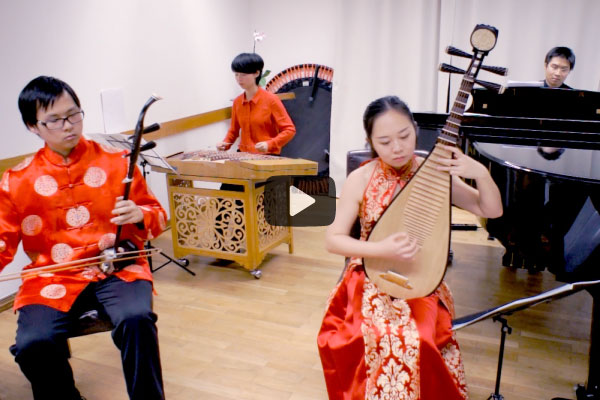
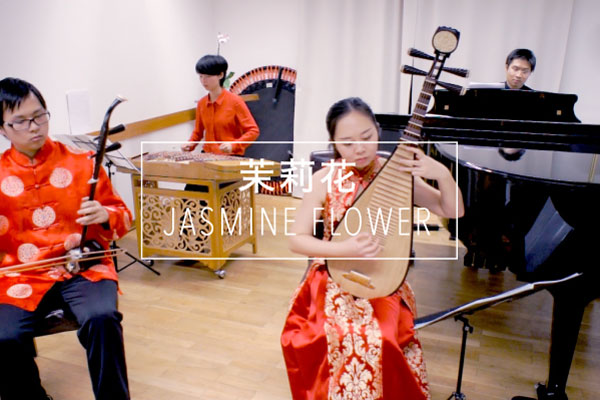
ADD: Dahan work page. UPDATE: Work description & teaser images.

diff --git a/_posts/de/work/2014-11-15-saima.md b/_posts/de/work/2014-11-15-saima.md
@@ -2,11 +2,11 @@
 layout: post
 date: 2014-11-15 15:00
 portal:
-    top_text: Sai Ma (Das Pferderennen)
+    top_text: Sài mǎ (Das Pferderennen)
     top_image: /images/work/saima/portal.jpg
 locale: de
 categories: work
-title: Sai Ma (Das Pferderennen)
+title: Sài mǎ (Das Pferderennen)
 teaser_image: /images/work/saima/teaser.jpg
 time:
 place:
@@ -14,11 +14,11 @@ excerpt: "Ein sorgfältig arrangiertes Trio von \"Er Hu\", Klavier und Schlagzeu
 side_content:
 ---
 
-"Sai Ma" ist ein Solo-Musikstück von [*Huang Haihuai*](#huanghaihuai), für das chinesische traditionelle Instrument
+"Sài mǎ" ist ein Solo-Musikstück von [*Huang Haihuai*](#huanghaihuai), für das chinesische traditionelle Instrument
 "Er Hu" komponiert hat. Die Musik beginnt in dem klanglichen Wiehern eines Pferdes, rau und ungebremst. Durch spezielle Spieltechniken, wie schnelle Bogen,
 Bogenspringen und Tremolo, werden die spektakulären Szenen des großen Rennens im Grasland der Inneren Mongolei ausdruckstark wiedergegeben.
 
-Unsere Version von "Sai Ma" ist ein sorgfältig arrangiertes Trio von "Er Hu", Klavier und Schlagzeug.
+Unsere Version von "Sài mǎ" ist ein sorgfältig arrangiertes Trio von "Er Hu", Klavier und Schlagzeug.
 "Er Hu" und Klavier spielen abwechselnd, das Schlagzeug "Mu Yu" imitiert das Klappern von Pferdehufen und gestaltet somit das gesamte Hörerlebnis sehr lebendig.
 
 <figure class="video-container">
@@ -27,5 +27,5 @@ Unsere Version von "Sai Ma" ist ein sorgfältig arrangiertes Trio von "Er Hu", K
 
 <i class="icon-note icon-inline"></i><b>Huang Haihuai</b> (1935-1967), war ein berühmter "Er Hu" Virtuose und Komponist.
 Seine Arbeit entwickelte die traditionellen Virtuosität des "Er Hu" weiter, indem er mutig bestimmte Techniken aus der abendländischen Musik entlieh.
-"Sai Ma" ist sein repräsentatives Werk, eines der hervorragendensten Stücke für "Er Hu".
+"Sài mǎ" ist sein repräsentatives Werk, eines der hervorragendensten Stücke für "Er Hu".
 {:#huanghaihuai .notice .bg-light}

diff --git a/_posts/en/work/2014-11-15-saima.md b/_posts/en/work/2014-11-15-saima.md
@@ -2,11 +2,11 @@
 layout: post
 date: 2014-11-15 15:00
 portal:
-    top_text: Sai Ma (Horse racing)
+    top_text: Sài mǎ (Horse racing)
     top_image: /images/work/saima/portal.jpg
 locale: en
 categories: en work
-title: Sai Ma (Horse racing)
+title: Sài mǎ (Horse racing)
 teaser_image: /images/work/saima/teaser.jpg
 time:
 place:
@@ -14,11 +14,11 @@ excerpt: "Trio of \"Er Hu\", piano and percussion. \"Er Hu\" and piano played al
 side_content:
 ---
 
-"Sai Ma" is a solo music piece wrote by [*Huang Haihuai*](#huanghaihuai) for the Chinese traditional instrument "Er Hu".
+"Sài mǎ" is a solo music piece wrote by [*Huang Haihuai*](#huanghaihuai) for the Chinese traditional instrument "Er Hu".
 Music starts in a neighing sound of horse, rough and unrestrained. Then through the special performing techniques like: quick bow, bow jumping and tremolo,
 the spectacular scene of herdsmen celebrating the grand race in grasslands of Inner Mongolia has been vividly demonstrated.
 
-Our version of "Sai Ma" is a meticulously arranged Trio of "Er Hu", piano and percussion.
+Our version of "Sài mǎ" is a meticulously arranged Trio of "Er Hu", piano and percussion.
 "Er Hu" and piano played alternately, along with the percussion "Mu Yu" imitated the clip-clop, make the whole listening experience a lot richer.
 
 <figure class="video-container">
@@ -27,5 +27,5 @@ Our version of "Sai Ma" is a meticulously arranged Trio of "Er Hu", piano and pe
 
 <i class="icon-note icon-inline"></i><b>Huang Haihuai</b> (1935-1967), famous "Er Hu" virtuoso and composer.
 His work developed the traditional "Er Hu" performing skills while courageously borrowed certain techniques from occidental music.
-"Sai Ma" is his representative work, one of the most outstanding work for "Er Hu".
+"Sài mǎ" is his representative work, one of the most outstanding work for "Er Hu".
 {:#huanghaihuai .notice .bg-light}

diff --git a/_posts/de/work/2014-11-15-molihua.md b/_posts/de/work/2014-11-15-molihua.md
@@ -2,11 +2,11 @@
 layout: post
 date: 2014-11-15 17:00
 portal:
-    top_text: Mo Li Hua (Jasmin-Blume)
+    top_text: Mò lì huā (Jasmin-Blume)
     top_image: /images/work/molihua/portal.jpg
 locale: de
 categories: work
-title: Mo Li Hua (Jasmin-Blume)
+title: Mò lì huā (Jasmin-Blume)
 teaser_image: /images/work/molihua/teaser.jpg
 time:
 place:
@@ -14,12 +14,12 @@ excerpt: Mit den bekannten Volksmelodien aus dem Original, hat der Komponist Her
 side_content:
 ---
 
-"Mo Li Hua" ist ein bekannter chinesischer Volkslied. Der Song hat eine lange Geschichte und wurde aus der Qianlong-Periode entstanden ist,
+"Mò lì huā" ist ein bekannter chinesischer Volkslied. Der Song hat eine lange Geschichte und wurde aus der Qianlong-Periode entstanden ist,
 zunächst als "Melodie des Blumen". Die am weitesten verbreitet Version ist die eine kam von Nanjing.
 Es ist nun auch als das Lied der Stadt Yangzhou bezeichnet.
 
-"Mo Li Hua" hat einen bemerkenswerten Ruf in der chinesischen Volksmusik. Es wird auch als das typische chinesische Melodie von der westlichen bekannt.
-Der italienische Komponist Giacomo Puccini hat einige der "Mo Li Hua" Melodien in seiner Oper verabschiedet
+"Mò lì huā" hat einen bemerkenswerten Ruf in der chinesischen Volksmusik. Es wird auch als das typische chinesische Melodie von der westlichen bekannt.
+Der italienische Komponist Giacomo Puccini hat einige der "Mò lì huā" Melodien in seiner Oper verabschiedet
 "<a href="https://www.youtube.com/watch?v=-PkS2HQj9ZE" target="_blank">Turandot</a>".
 
 Unsere Version wird durch den jungen Komponisten Xiaoliang Zhou, vor allem für Prims maßgeschneidert zusammen.

diff --git a/_posts/de/work/2015-03-14-niudouhu.md b/_posts/de/work/2015-03-14-niudouhu.md
@@ -1,11 +1,11 @@
 ---
 layout: post
 portal:
-    top_text: Niu Dou Hu (Ein Bulle kämpft gegen einen Tiger)
+    top_text: Niú dòu hǔ (Ein Bulle kämpft gegen einen Tiger)
     top_image: /images/work/niudouhu/portal.jpg
 locale: de
 categories: work
-title: Niu Dou Hu (Ein Bulle kämpft gegen einen Tiger)
+title: Niú dòu hǔ (Ein Bulle kämpft gegen einen Tiger)
 teaser_image: /images/work/niudouhu/teaser.jpg
 time:
 place:
@@ -13,11 +13,11 @@ excerpt: Eine Demonstration der Kampf zwischen Stier und Tiger, durch die drei B
 side_content:
 ---
 
-"Niu Dou Hu" ist ein [*Jiangzhou Trommelmusik*](#jiangzhoudagu) Duett, eine Show der Kampfszene zwischen einem Bulle und einem Tiger.
+"Niú dòu hǔ" ist ein [*Jiangzhou Trommelmusik*](#jiangzhoudagu) Duett, eine Show der Kampfszene zwischen einem Bulle und einem Tiger.
 Durch die drei Bewegungen "begegnen", "provozieren" und "kämpfen", es demonstriert der unterschiedliche Charakter der beiden Gegner.
 
 Am 14. März 2015, 19:00 Uhr, Gasteig Black Box Halle in München, Prims Studio hat dem örtlichen Publikum ein Frühlingskonzert
-[*"Frühlingsmelodien"*](/event/003-melody-of-spring/) gebracht. Hier ist die Leistung Jiangzhou Trommelmusik "Niu Dou Hu" als Eröffnungsszene.
+[*"Frühlingsmelodien"*](/event/003-melody-of-spring/) gebracht. Hier ist die Leistung Jiangzhou Trommelmusik "Niú dòu hǔ" als Eröffnungsszene.
 
 <figure class="video-container">
     <iframe width="420" height="315" src="//www.youtube.com/embed/q9Rpss_C0sk" frameborder="0" allowfullscreen></iframe>

diff --git a/_posts/en/work/2014-11-15-molihua.md b/_posts/en/work/2014-11-15-molihua.md
@@ -2,11 +2,11 @@
 layout: post
 date: 2014-11-15 17:00
 portal:
-    top_text: Mo Li Hua (Jasmine Flower)
+    top_text: Mò lì huā (Jasmine Flower)
     top_image: /images/work/molihua/portal.jpg
 locale: en
 categories: en work
-title: Mo Li Hua (Jasmine Flower)
+title: Mò lì huā (Jasmine Flower)
 teaser_image: /images/work/molihua/teaser.jpg
 time:
 place:
@@ -14,12 +14,12 @@ excerpt: With the familiar folk melodies from the original, the composer Mr. Zho
 side_content:
 ---
 
-"Mo Li Hua" is a well-known Chinese folk song. The song has a long history and was originated from the Qianlong period,
+"Mò lì huā" is a well-known Chinese folk song. The song has a long history and was originated from the Qianlong period,
 initially called the "Flower's Melody". Now the most widely spreading version is the one came from Nanjing.
 It is now also designated as the song of the city of Yangzhou.
 
-"Mo Li Hua" has a remarkable reputation in the Chinese folk music. It is also known as the typical Chinese melody by the Western.
-The Italian composer Giacomo Puccini has adopted some of "Mo Li Hua" melodies in his opera
+"Mò lì huā" has a remarkable reputation in the Chinese folk music. It is also known as the typical Chinese melody by the Western.
+The Italian composer Giacomo Puccini has adopted some of "Mò lì huā" melodies in his opera
 "<a href="https://www.youtube.com/watch?v=-PkS2HQj9ZE" target="_blank">Turandot</a>".
 
 Our version is composed by the young composer Xiaoliang Zhou, especially tailored for Prims.

diff --git a/_posts/en/work/2015-03-14-niudouhu.md b/_posts/en/work/2015-03-14-niudouhu.md
@@ -1,11 +1,11 @@
 ---
 layout: post
 portal:
-    top_text: Niu Dou Hu (A bull fights a tiger)
+    top_text: Niú dòu hǔ (A bull fights a tiger)
     top_image: /images/work/niudouhu/portal.jpg
 locale: en
 categories: en work
-title: Niu Dou Hu (A bull fights a tiger)
+title: Niú dòu hǔ (A bull fights a tiger)
 teaser_image: /images/work/niudouhu/teaser.jpg
 time:
 place:
@@ -13,12 +13,12 @@ excerpt: A demonstration of the battle between a bull and a tiger, through the 3
 side_content:
 ---
 
-"Niu Dou Hu" is a [*Jiangzhou drum music*](#jiangzhoudagu) duet, a show of the battle scene between a bull and a tiger.
+"Niú dòu hǔ" is a [*Jiangzhou drum music*](#jiangzhoudagu) duet, a show of the battle scene between a bull and a tiger.
 Through the 3 movements "encounter", "provok" and "fight", it vividly demonstrated the different character of the two opponents.
 
 March 14, 2015, at 7:00 pm., Gasteig Black Box hall in Munich, Prims Studio has brought the local audience a spring concert
 [*"Melody of Spring"*](/en/event/003-melody-of-spring/).
-Here is the performance of Jiangzhou drum music "Niu Dou Hu" as its opening scene.
+Here is the performance of Jiangzhou drum music "Niú dòu hǔ" as its opening scene.
 
 <figure class="video-container">
     <iframe width="420" height="315" src="//www.youtube.com/embed/q9Rpss_C0sk" frameborder="0" allowfullscreen></iframe>

diff --git a/_posts/de/work/2019-01-20-dahan.md b/_posts/de/work/2019-01-20-dahan.md
@@ -1,0 +1,25 @@
+---
+layout: post
+portal:
+    top_text: Dà hán (Solartermin)
+    top_image: /images/work/dahan/portal.jpg
+locale: de
+categories: work
+title: Dà hán (Solartermin)
+teaser_image: /images/work/dahan/teaser.jpg
+time:
+place:
+excerpt: Der letzte von 24 Solartermien im traditionellen chinesischen Kalender. Es ist der kälteste Tag im Jahr.
+side_content:
+---
+
+Dà hán ("大寒") ist der letzte von 24 Solartermien im traditionellen chinesischen Kalender. Es ist der kälteste Tag im Jahr.
+
+Dieses [*Hang*](#hang) Solo wurde unter -10° C in Süddeutschland nahe der Alpenregion gedreht.
+
+<figure class="video-container">
+    <iframe width="560" height="315" src="https://www.youtube.com/embed/b0LHJj54Y5U" frameborder="0" allow="accelerometer; autoplay; encrypted-media; gyroscope; picture-in-picture" allowfullscreen></iframe>
+</figure>
+
+<i class="icon-note icon-inline"></i><b>Hang</b> ist ein Musikinstrument, das aus zwei Halbschalen aus Stahlblech aufgebaut ist, die die Form einer konvexen Linse bilden. An der Oberseite ("Ding") ist eine "Note" in der Mitte und sieben oder acht "Klangfelder" um die Mitte gehämmert. Der Boden ("Gu") ist eine ebene Fläche, die in der Mitte ein gerolltes Loch mit einer abgestimmten Note hat, die beim Aufschlagen der Felge erzeugt werden kann.
+{:#hang .notice .bg-light}

diff --git a/_posts/en/work/2019-01-20-dahan.md b/_posts/en/work/2019-01-20-dahan.md
@@ -1,0 +1,25 @@
+---
+layout: post
+portal:
+    top_text: Dà hán (solar term)
+    top_image: /images/work/dahan/portal.jpg
+locale: en
+categories: en work
+title: Dà hán (solar term)
+teaser_image: /images/work/dahan/teaser.jpg
+time:
+place:
+excerpt: The last one of 24 solar terms in Chinese traditional calendar. It marks the coldest day in a year.
+side_content:
+---
+
+Dà hán ("大寒") is the last one of 24 solar terms in Chinese traditional calendar. It marks the coldest day in a year.
+
+This [*Hang*](#jiangzhoudagu) solo was filmed under -10˚C in the south of Germany, near the Alps region.
+
+<figure class="video-container">
+    <iframe width="560" height="315" src="https://www.youtube.com/embed/b0LHJj54Y5U" frameborder="0" allow="accelerometer; autoplay; encrypted-media; gyroscope; picture-in-picture" allowfullscreen></iframe>
+</figure>
+
+<i class="icon-note icon-inline"></i><b>Hang</b> is a musical instrument constructed from two half-shells of steel sheet forming the shape of a convex lens. The top ("Ding") side has a center 'note' hammered into it and seven or eight 'tone fields' hammered around the center. The bottom ("Gu") is a plain surface that has a rolled hole in the center with a tuned note that can be created when the rim is struck.
+{:#hang .notice .bg-light}

diff --git a/_posts/zh/work/2019-01-20-dahan.md b/_posts/zh/work/2019-01-20-dahan.md
@@ -1,0 +1,25 @@
+---
+layout: post
+portal:
+    top_text: 大寒
+    top_image: /images/work/dahan/portal.jpg
+locale: zh
+categories: zh work
+title: 大寒
+teaser_image: /images/work/dahan/teaser.jpg
+time:
+place:
+excerpt: 二十四节气中的最后一个节气。在中国这一天被认为是一年中最冷的一天。
+side_content:
+---
+
+大寒，是二十四节气中的最后一个节气。在中国这一天被认为是一年中最冷的一天。
+
+这首[*手碟*](#hang)独奏曲是在零下10摄氏度的环境下，于德国南部阿尔卑斯山附近拍摄的。
+
+<figure class="video-container">
+    <iframe width="560" height="315" src="https://www.youtube.com/embed/b0LHJj54Y5U" frameborder="0" allow="accelerometer; autoplay; encrypted-media; gyroscope; picture-in-picture" allowfullscreen></iframe>
+</figure>
+
+<i class="icon-note icon-inline"></i><b>手碟</b>该乐器通常由两块半壳状薄钢板构成，呈独特的“飞碟”状。手碟顶部中央有一个凸点，是上部的基准音“Ding”，围绕它分布有七个或八个凹点，每个点都有一个音高。手碟底部开有一个被称为“Gu”的边缘内卷的孔，为低音部，也是用来调音的。
+{:#hang .notice .bg-light}
